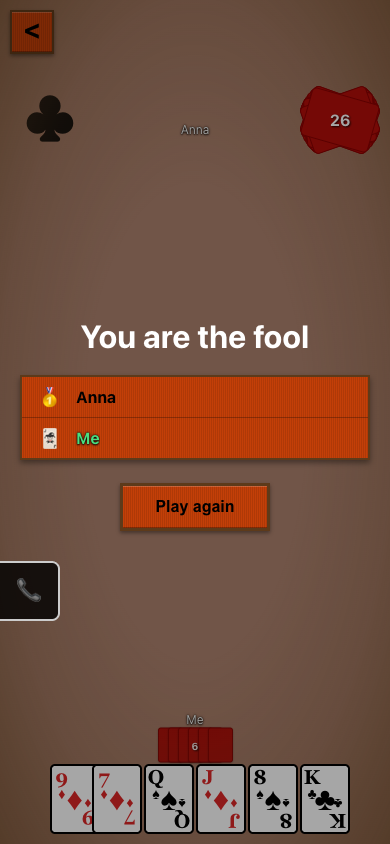
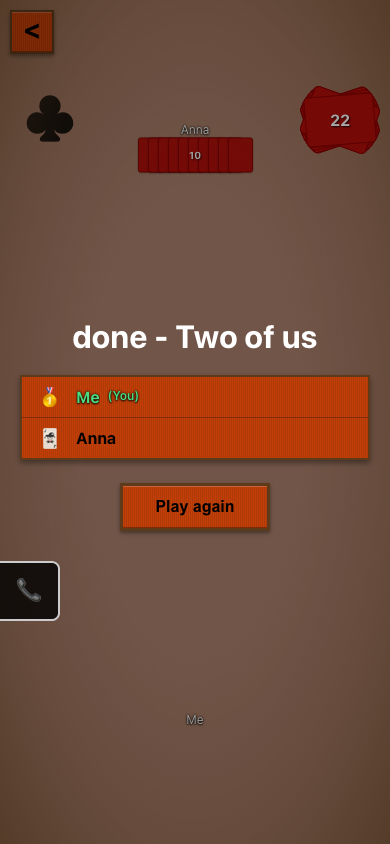
cdom_poc README: Consistency (what the repro found, real bugs and parity differences, each fix), Reload (the blob in cdom's store, what is not kept, a failed put, first paint measured both ways and B chosen), the bot's pace (bot_wait_ms on the page's BoardClock), the tests and 34 mutants; shots rege

diff --git a/foolish/c/cdom_poc/tools/mutate.py b/foolish/c/cdom_poc/tools/mutate.py
@@ -36,7 +36,6 @@ MUTANTS = [
   ('no (You) on my row', 'src/table_app.c', '  if (seat == ME) { OPEN("span"); CLASS("result-card__you");', '  if (0) { OPEN("span"); CLASS("result-card__you");', 'tools/test.mjs', 'React'),
   ('the game not kept after a bot step', 'src/table_app.c', '  bot_drive(&G, game_human_mask(&G), BOT_DRIVE_MAX_ACTIONS, 0, 0, &out);\n  committed();', '  bot_drive(&G, game_human_mask(&G), BOT_DRIVE_MAX_ACTIONS, 0, 0, &out);\n  game_keep_canonical(&G);', 'tools/test.mjs', 'reload'),
   ('the stored game ignored', 'src/table_app.c', '  game_adopted = len > 0 && game_keep_load(&G, p, len);', '  game_adopted = 0;', 'tools/test.mjs', 'reload'),
-  ('a battle never uncovered', 'src/table_app.c', '  if (want == it->data) return;\n  int aid', '  if (want == it->data || !want) return;\n  int aid', 'tools/test.mjs', 'reload'),
   ('a failed save ignored', 'src/table_app.c', '  save_failed = !ok;\n', '  save_failed = 0;\n', 'tools/test.mjs', 'not silent'),
   ('a failed save not tried again', 'src/table_app.c', '  if (token == TIMER_SAVE_RETRY) { save_retry_pending = 0; game_save(); }', '', 'tools/test.mjs', 'not silent'),
   ('http body not sent', 'vendor/cdom.js', 'const body = bodyLen ? copyBytes(bodyPtr, bodyLen) : undefined;', 'const body = undefined;', 'tests/net_test.mjs'),

diff --git a/foolish/c/cdom_poc/README.md b/foolish/c/cdom_poc/README.md
@@ -10,9 +10,10 @@ The look is the React components' inline styles, copied value for value, over `s
 The board is the kernel's, called directly as C: a `Game`, read for the viewer with `client_adopt_board` into a `TableView` and `client_view_rules`, the pills and the meaning of a click from `client_play`, the move written by `client_move_wire` and applied by `awire_apply`, and the bot's answer from `bot_drive`.
 The first board is the one `e2e/ui_dom_snapshots.test.ts` `twoSeatBout()` composes for the golden `bout_2p_attacker.html` (trump Kc, my 6s 7h Qd Ad against 9h Th Jh 6c, 6h/8h and 6d on the table).
 "Play again" deals a fresh seeded game.
+A reload lands in the same game: the kernel's state blob is kept in cdom's store after every move and adopted as the table starts (Reload, below).
 
 Playing: click a card to select it (red border) and the kernel's pills appear; click a pill, the table (attack or transfer) or a battle (cover) to play.
-The bot answers 650 ms later, one visible move per step, and the game runs to its end screen.
+The bot answers when the kernel says (`bot_wait_ms`: 3000 ms after the last move shown with a human in the game), one visible move per step, and the game runs to its end screen.
 Every region keeps what it last drew and emits only the difference: the hand, the battles, the pills, the stock and discard layers and each mini hand are cdom keyed lists; the counts, the role marks and the hand positions are patched in place.
 Nothing is rebuilt on a move: the test tags the nodes before a move and finds the same nodes after it.
 
@@ -22,7 +23,8 @@ Live play against c_base and sign-in are next steps, not part of this PoC; the n
 
 ## Files
 
-- `src/table_app.c`: the table (1,325 lines; 251 of them the texture pipeline, from making to the store).
+- `src/table_app.c`: the table (1,626 lines, the texture pipeline and the test build's window on the kernel among them).
+- `src/game_keep.c`, `src/game_keep.h`: the game as a host keeps it: canonical after every operation, its blob written and adopted (48 lines); linked by the table and by `tests/blob_test.c`.
 - `src/ui.h`: element shorthands over cdom's `CD_LIT`, and the style builder whose result crosses as a one-off string (36 lines).
 - `src/kernel_glue.c`: the one bot brain (20 lines); the allocator is cdom's.
 - `src/textures.c`, `src/textures.h`: the wool, the wood and the fern, ports of their TS generators, the wool kept in a crop and the wood in rectangles (385 lines).
@@ -33,14 +35,18 @@ Live play against c_base and sign-in are next steps, not part of this PoC; the n
   The table links `cdom_store.c` (the textures across loads) but not `mini.c` (the kernel's libc brings memcmp and strlen) nor `cdom_net.c` (it has no network yet); the network test links the network.
 - `tests/net_test.c`, `tests/net_test.mjs`: cdom's network imports against a local echo server.
 - `tests/tex_test.c`: the texture generators alone, for `tools/texparity.mjs`.
-- `tools/`: `cdp.mjs` (headless Chrome over CDP and a static server), `test.mjs`, `shots.mjs`, `timing.mjs`, `textime.mjs` (the textures' timing against the app's), `strings.mjs`, `texparity.mjs`, `domcount.mjs`, `domdiff.mjs`, `play.mjs` (plays my seat to the end by clicks), `mutate.py`.
+- `tests/blob_test.c`: native; 300 games round-tripped through the state blob at every step (110 lines).
+- `tools/`: `cdp.mjs` (headless Chrome over CDP and a static server), `test.mjs`, `shots.mjs`, `timing.mjs`, `textime.mjs` (the textures' timing against the app's), `strings.mjs`, `texparity.mjs`, `domcount.mjs`, `domdiff.mjs`, `play.mjs` (plays my seat to the end by clicks), `consist.mjs` (the DOM against the kernel and React's rules at every click and bot step), `mutate.py`.
+- `out/table_debug.wasm`: the test build, the same table with `TABLE_DEBUG` (`?debug` on the page loads it): the kernel's state as text (`app_debug_state`), the bot's steps held for the test (`app_debug_hold`, `app_debug_release`) or made 30 ms (`app_debug_fast`, the clock put back, the kernel's rule untouched), and the kernel's random streams seeded (`app_debug_reseed`).
 - `shots/`: the screenshots.
 
 ## Running it
 
 ```
-./build.sh                      # out/table.wasm, out/index.html, out/net_test.wasm, out/tex_test.wasm
-node tools/test.mjs             # the table test
+./build.sh                      # out/table.wasm, out/table_debug.wasm, out/index.html, out/net_test.wasm, out/tex_test.wasm, out/blob_test
+out/blob_test                   # the state blob against the games this table plays (native)
+node tools/test.mjs             # the table test (ONLY=<regex> runs the checks it matches)
+node tools/consist.mjs 3 1      # 3 games by seeded random clicks, the DOM against the kernel at every step
 node tests/net_test.mjs         # the network imports
 node tools/strings.mjs          # the string table over three games
 node tools/texparity.mjs        # the C textures against the TS generators (writes out/tex_ts.js)
@@ -55,7 +61,8 @@ Run `npm install` once in `tools/` for terser; without it the shim is inlined un
 `tools/texparity.mjs` and `tools/textime.mjs` bundle the app's TS with esbuild from the main checkout's node_modules (`/Users/alex/Dev/foolish/foolish/node_modules`).
 `build.sh` needs homebrew LLVM (`WASM_CC` overrides it), and uses `wasm-opt` and `brotli` when present.
 The tools serve `foolish/` on port 8720 and drive Chrome on 8729.
-`?notex` on the page leaves the textures out (the golden comparisons use it).
+`?notex` on the page leaves the textures out (the golden comparisons use it); `?debug` loads the test build.
+A load adopts the game the last load kept: the tools that need the golden's board load it through `openTable` (tools/cdp.mjs), which forgets the kept game first.
 To play by hand, serve `foolish/` (for example `node -e "import('./c/cdom_poc/tools/cdp.mjs').then((m) => m.serve())"` from `foolish/`) and open http://127.0.0.1:8720/c/cdom_poc/out/index.html.
 
 ## Against the React golden
@@ -74,6 +81,73 @@ With textures, `shots/react_golden_tex.png` is the golden with the app's TS text
 Against `shots/cdom_tex_midgame.png` 6,643 of 786,432 pixels differ, every one of them on a card back: 4,025 on the deck, 1,520 and 1,098 on the two mini hands (the fern, Textures); the wool and the wood are the same pixels.
 At 390x844 the count is 21,032: the 13,952 above (the hand, laid out for jsdom's width in the golden), the card backs, nothing on the wool.
 `shots/fern_backs.png` and `shots/fern_backs_390x844.png` put a card back of each side by side, 4x (React's left).
+
+## Consistency
+
+The owner played the port and found no consistent state.
+Reproduced first, by `tools/consist.mjs` and `tests/blob_test.c` at 6e0646936 (before any fix) and by a scripted load, wait, throw-in and reload against that build and this one.
+`tools/consist.mjs` plays games by seeded random real clicks (cards picked and put down, pills, a battle, the empty table), holds the bot's steps and releases them one by one, and after every click and every bot step compares the DOM with the kernel's state (worked out afresh, from the game round-tripped through its blob, by a ClientTable of its own) and with a model of React's rules for what the kernel does not hold (spec: GameContext's selection, ActionButtons' pressed pills and rearm, DragContext's drop, WinScreen).
+It checks the hand (cards, order, each card's box against the kernel's `hand_layout` slot, the red borders), the pills, the battles, the stock badge and layers, the trump card or icon, the discard pile, each seat's mark and count, whose step it is, and the end screen.
+
+What it and the other repros found, in order, and what each was:
+1. **The game the port kept was not the game its blob holds** (a real bug; `tests/blob_test.c`).
+   Round-tripping the port's game through `state_blob_put`/`state_blob_load` at every step of seeded games and driving both copies on with the same seeds: seed 1, step 11, a transfer by the defender, and the two boards differ (`players[1].awaiting_attack` 1 in the resident game, 0 in the loaded one; then other moves).
+   The defender's raw awaiting flag outlives its turn as defender, the blob writes it as `game_seat_awaiting`, and the passer, an attacker again, carried the dead flag into play.
+   The kernel's answer is view.h `state_canonical`: a host that keeps a board between operations keeps it canonical (table.c `table_resident` does).
+   Fixed: `game_keep_canonical` after every operation (a move, a bot step, a deal, a load); 300 games, 15,418 steps then agree board for board and drive for drive.
+   (The same test first showed two bot seats taking turns in another order after a load: bot_drive.c `drive_seed` counts the log, which the blob drops; canonical drops it too, and the port has one bot seat.)
+2. **The bot never moved on the first board** (a real bug).
+   The golden's board has the bot defending against 6d; at load `data-turn` said "human" and four seconds later the table was unchanged (3 cards, Anna 4): the bot was scheduled only after a click.
+   Fixed: the bot's timer runs exactly while the kernel says it may act (`bot_check` after every change, from the start).
+3. **The bot answered 650 ms after a move, the port's own number** (React parity; measured 643 ms after a throw-in).
+   Fixed: the kernel's `bot_wait_ms` (The bot's pace, below): 3,020 ms measured after the same throw-in.
+4. **The end screen was the port's own** (React parity): "You are the fool", "You won" or "A draw" and rows "🥇Anna", "🃏Me", where WinScreen.tsx says "done - Two of us" (its title), orders the rows by the kernel's `anim_finish_rows` (everyone out, then the fool), gives the fool's card to the last place (so a draw's second out too) and writes "(You)" after my name.
+   Fixed: the same title, the kernel's rows, RankIcon's rule and the "(You)" span.
+   The button stays "Play again" (the app's "Continue to lobby" goes to a lobby this port does not have).
+5. **A reload went back to the seeded deal** (missing; the app re-reads its server's row): before the reload my hand 1-6 3-11 3-13 0-13 0-12 2-6 against an empty table and Anna's 8, after it the golden's 0-5 1-6 3-11 3-13.
+   Fixed: Reload, below.
+6. **A battle's cover was only ever added** (a real bug, found by the reload check).
+   With the kept game drawn over the seeded deal, the golden's 6h/8h battle stayed covered in the DOM where the kept game had 6h uncovered (the list key is the attack card, and the patch assumed a battle is only covered).
+   Fixed twice over, for different reasons: a battle's patch now follows its cover both ways (its item holds the cover's card), and the board is no longer drawn before the store answers (Reload).
+   No path in play replaces a covered battle with an uncovered one under the same attack card now, so the both-ways patch has no check that can reach it; it is kept as the list's honest rule.
+7. **The selection rules differed in code but showed nothing** (React parity, invisible locally).
+   The port cleared the selection after any move it applied (Pickup and Good included) and only when applied; React clears it when Attack, Pass or Cover is pressed (refused or not), when a drop is a move, and never on Pickup or Good.
+   The port now does exactly that, but nothing a player sees changed: a selection never offers Pickup or Good (one move, one button), and an offered Attack, Pass or Cover is never refused by a local engine.
+   Neither the bot's moves nor a card turning illegal clears it, as in React; the pills follow `client_play` (the consistency check holds both).
+8. **No pressed pills** (React parity, invisible locally).
+   Implemented as ActionButtons does (hidden until the kernel's pill falls and rises again, folded with the empty selection's pills; unpressed on a refusal), but over 3 games and 72 presses (seed 1) no pill was still offered after its move: a press only shows while a move is on its way to a server.
+   Its mutant would be equivalent and is not in the list.
+Two early reports of the harness were its own: a click on a card's centre that landed on a neighbour still sliding (0.1 s) or lying over it, now clicked where the card shows once every card's transition is over.
+
+## Reload
+
+The React app keeps no game in the browser (spec_state.md section 1): online it re-reads the server's committed row and adopts it through `client_adopt_envelope`.
+The port's equivalent is the kernel's own durable form: after every operation the game is made canonical and `state_blob_put` (format v5, 122 bytes for a fresh deal) is kept in cdom's store under `foolish-game-v1`, the store the textures use (one store path).
+As the table starts it asks the store (`openStore` opens IndexedDB while the wasm loads) and draws the board when the store answers: the kept game when `state_blob_load` reads it as a two-seat game playing or over, else the seeded deal.
+The seats' kinds are not in the blob (the kernel's `table_load` takes them from its roster): seat 0 is the human and seat 1 the handwritten bot again.
+The blob carries `has_flipped` and, with it, the trump; an unflipped trump comes back as {0,0}, which `client_adopt_board` hides behind `has_flipped` and `state_canonical` writes on the resident game too, so `tests/blob_test.c` finds the same TableView and ViewRules for both seats either way.
+The blob's clock is written zero: it would be this page's time, and a load shows the board anew, so the bot waits its full pace after a reload.
+The handwritten bot keeps nothing outside the Game (its random draws come from the kernel's stream, which a load starts anew): the blob is the whole game.
+Not kept, as React keeps neither: the selection and the pressed pills; the hand is in the kernel's order (the port has no local order).
+A failed write is not silent: the store answers each put (`cd_on_store_put`), a failure shows "Not saved: a reload would lose this game" at the top of the table until a later put is kept, and the save is tried again 2 s later (every move saves anyway).
+
+When to draw: measured two ways, paired and interleaved (`tools/timing.mjs`, BLANK=1, 3 rounds of 7 fresh loads per arm per throttle, `?notex&debug`, nothing kept), first contentful paint median and 25th-75th percentile:
+| | x1 | x4 |
+| --- | ---: | ---: |
+| A: the seeded deal drawn at once, a kept game adopted over it | 136.6 (116.7-163.7) to 165.7 | 330.0 to 353.5 |
+| B: the board drawn when the store answers | 69.5 to 73.0 (66.6-114.2) | 189.4 to 200.4 |
+(the range is the three rounds' medians; the store answered at 54 to 58 ms at x1 and 185 to 194 at x4 in B, before the first paint, and cdom.start resolved at 24 to 28 ms in B and 70 to 95 in A.)
+Load: averages 29.9 to 41.9 on 8 cores around the runs (another agent's `cnitro_eval` and `cnitro_tests` at 44 to 70% of a core each), above the core count, so the absolute times are upper bounds; the arms ran alternately under the same load and B was faster in every round.
+B is the table: the frame (the wool, the title, the back button) paints, the board joins it when the store answers, at most `CD_STORE_DEADLINE_MS` (1,500 ms) when IndexedDB hangs, and a click or a resize before then does nothing.
+Why A cost so much more than the render itself was not taken further: B does not move first paint (69.5 to 73.0 against this pass's start, 73 in the texture table below).
+
+## The bot's pace
+
+The kernel owns it: `bot_wait_ms(g, human_mask, shown_ms, settles_ms, now)` (bot_drive.h), the server's rule, says how long the bot waits before it acts on the board in front of it: until the last operation shown has finished playing, then `BOT_PACE_MS_WITH_HUMANS` (3000 ms) with a human in the game.
+The port keeps the table's BoardClock in its own page time: `shown_ms` is when the last operation (mine, the bot's, a deal, a load) was shown, and `settles_ms` when it finishes playing, which with no animations is the same instant (`settles_ms()` in table_app.c is where pass 3 adds the animation stream's end, `anim_stream_ms`).
+The bot's timer runs exactly while the kernel says it may act (`bot_drive_eligible_mask`), and asks the kernel again when it fires: a move of mine in between moves the bot's step back, as the server's loop does (measured: the bot moved 3,018 to 3,024 ms after my throw-in, 4,088 to 4,128 ms after the load).
+A timer cannot be cancelled: each schedule has a generation, and an older one's timer does nothing.
+`bot_cycle_delay_ms` (the iMessage loop's fixed sleep after a cycle) is not used: it counts from the bot's own move and ignores a human's, which bot_drive.h names as the reason the server moved to `bot_wait_ms`.
 
 ## Textures
 
@@ -186,12 +260,12 @@ Every computed string (a style, a data-card, an index) now crosses as a one-off 
 Live node ids at each end screen: 58, 64, 60 (the board on screen differs; nothing accumulates).
 
 Sizes:
-- `table.wasm` 71,391 bytes raw, 29,539 brotli (q11), 32,872 gzip (-9); before the texture pass 71,725, 29,589 and 32,956, before the first port-fixes pass 54,992, 22,122 and 24,870.
+- `table.wasm` 75,303 bytes raw, 31,092 brotli (q11), 34,723 gzip (-9) after the consistency pass (the blob's writer and reader, `state_canonical`, `bot_wait_ms`, `anim_finish_rows`, the end screen's rows, the save's notice); before it 71,391, 29,539 and 32,872, before the texture pass 71,725, 29,589 and 32,956, before the first port-fixes pass 54,992, 22,122 and 24,870.
   musl's 2/pi table went with jsmath.c; the crop, the rectangles, the store and the keys came in.
   For scale, the React app's kernel alone, web.wasm, is 67,311 raw and 31,219 gzip (c/Makefile), before any JavaScript, and its textures are in its JavaScript.
 - The shim: cdom's own, unchanged, written to be read and inlined minified: 6,678 bytes minified, 2,632 brotli (6,553 and 2,615 in its golfed form before); cdom's PERF_LOG.md, SHIM_LINES, says what each import is for.
   Before the first port-fixes pass the port carried 172 lines of its own patched shim.
-- The C the table is written in: 1,381 lines (`table_app.c` 1,325, of which the texture pipeline 251, `ui.h` 36, `kernel_glue.c` 20), plus the generators (385), trig.c (141) and crtrig.c (139).
+- The C the table is written in: 1,710 lines (`table_app.c` 1,626, with the texture pipeline and the test build's window on the kernel, `game_keep.c` and `.h` 48, `ui.h` 36, `kernel_glue.c` 20), plus the generators (385), trig.c (141) and crtrig.c (139).
 
 ## Against the TSX it replaces
 
@@ -202,22 +276,27 @@ For what both do, the C is about as long as the TSX, most of it the same inline 
 
 ## The tests
 
-`tools/test.mjs` (headless Chrome, real mouse events):
-- the first paint is the golden's DOM, but for the listed differences;
+`tools/test.mjs` (headless Chrome, real mouse events; the test build, its bot held or fast where a check says so):
+- the first paint is the golden's DOM, but for the listed differences (and `data-turn="bot"`: the bot may act on that board);
 - the seeded deal reads back: the hand, the battles, a badge of 21 over 20 stock layers, the marks, no pills;
 - a resize re-lays the hand at the new width through `hand_layout` (the resize arrives through cdom's event path, `cd_listen_window`);
 - a click selects a card and the kernel's pills follow (7h offers nothing, 6s offers Attack), and a second click deselects;
-- Attack plays 6s, the bot answers with a legal move, the surviving hand cards, battles and seats are the same DOM nodes, and Anna's count stays her mini hand's last child;
+- Attack plays 6s and spends the selection, the bot answers with a legal move, the surviving hand cards, battles and seats are the same DOM nodes, and Anna's count stays her mini hand's last child;
 - the textures land after the first paint: with the store emptied, none is set when the table first shows, then all four and the black back are, a card back, a button and the wool show a `url(blob:...)`, all were made on this load, and the wool's image is the app's 3840x2160;
 - the next load in the same profile sets all four from the store and makes none (no generator ran);
-- a game played out by clicks (`tools/play.mjs`, textures on) reaches the end screen, and Play again deals six new cards;
+- the bot waits as the kernel says: 3000 ms with a human in the game (`app_bot_wait`), and a throw-in of mine a second after the load puts its step 3000 ms after the throw-in (between 2,900 and 4,500 ms), not after the load;
+- the consistency check (`tools/consist.mjs`, seed 1, 3 games, textures on): no disagreement at any click or bot step;
+- a reload lands in the same game: seed 3's line (my 6s, the bot's answers, my moves) to 6h, 6d and 6s attacking me, the DOM the kernel's, a card selected, a reload: the stored game adopted and the DOM the same but for the selection; then played to its end, a reload shows the end screen, Play again, and a reload shows the new deal;
+- a save that fails is not silent: with IndexedDB refusing the game's key, a move shows the notice; the store taking it again, the retry keeps the game, the notice goes, and a reload adopts it;
+- a game played out by clicks (`tools/play.mjs`, textures on) reaches the end screen ("done - Two of us"), and Play again deals six new cards;
 - after every click of that game and of more games, until every pill has shown, every wood surface on the page (the back button, each pill, the results panel, Play again) lies inside the rectangles its picture was worked out in.
 
+`tests/blob_test.c` (native, ASan and UBSan): 300 seeded games with seat 1 the bot and seat 0 the same brain driven alone, the game canonical after every operation as the table keeps it; at every step the blob is written and adopted by `game_keep_load` into a zeroed Game, and the board (`state_put` unmasked, byte for byte), both seats' TableView and ViewRules, and the next drive from the same seeds all agree.
 `tests/net_test.mjs`: a wasm module sends 8 binary bytes over a WebSocket and gets them echoed, then POSTs them and gets them back reversed (cdom's network, with no cd_flush anywhere).
 `tools/strings.mjs`: from game 2 to game 3 the string table may grow only by what a game can show for the first time late (an end title, a pill, a medal: at most 10 strings and 200 bytes); it had been "may not grow", which failed whenever game 3 was the first to show such a literal (seen once in this pass, 180 to 181).
 `tools/texparity.mjs`: the PRNG exact; the wood's cos exactly Chrome's and trig.c's sin, cos and tan within 1 ulp; the wool (whole and the page's crop), the wood (floats, the WebGL picture, and six rectangles with the base colour around them) and the fern's points exact; the multisampled fern within 3% of the WebGL picture; and, measured but not judged, the page-size fern against the app's picture shrunk.
 
-Mutation check (`tools/mutate.py`), each of 24 mutants caught by the check written for it:
+Mutation check (`tools/mutate.py`), each of 36 mutants caught by the check written for it (a mutant of this pass runs the check it names, `ONLY`; the source's copy is kept outside the checkout):
 - a card face's radius 5px to 4px: the golden check names the first differing tag;
 - the bot never chooses a move: the bot-answer check times out on `data-turn`;
 - the hand rebuilt on every render: "the three cards left in my hand are the nodes that were there";
@@ -233,6 +312,15 @@ Mutation check (`tools/mutate.py`), each of 24 mutants caught by the check writt
 - the store ignored: "every texture from the store, no generator run" (the warm load made all four);
 - the wool not placed in the 3840x2160 image: "the wool image is the app's size" (1952x1104);
 - the WebSocket bytes flipped in the shim: "ws failed"; the HTTP body not sent: "http wrong".
+- the game not canonical between operations: `out/blob_test` ("seed 1 step 11 after the next drive: the board differs");
+- a drop that is no move spends the selection: the consistency check ("selection held x152 ... port (none) React 1-6");
+- the bot not scheduled at the start: the golden check (`data-turn="human"`) and the pace check;
+- the bot's wait 650 ms from the clock: "the kernel's wait with a human in the game" (650 against 3000); the timer stepping without asking again: "the bot's step 3000 ms after my move, not after the load: 1876 ms";
+- the end rows reversed, and no "(You)": the consistency check ("end rows");
+- the game not kept after a bot step, and the kept game ignored: the reload check ("the DOM after the reload is the DOM before it", "the stored game adopted");
+- a failed put not answered, and not tried again: the save check (no notice; the notice never goes).
+Not in the list, being equivalent here: Pickup and Good spending the selection (a selection never offers either), a pressed pill shown (no press outlives its move locally), and a battle's cover patched one way only (no path in play uncovers a battle under the same attack card since the board waits for the store).
+Run at load averages 45.9 to 89.7 on 8 cores (the bot league), every mutant caught; the pace check's bounds (2,900 to 4,500 ms) held.
 
 ## WHAT THE APP NEEDED FROM CDOM
 
@@ -305,6 +393,10 @@ Items 1 to 16 were folded into cdom on branch port-fixes (`/Users/alex/Dev/cdom-
 - **A one-off string must be used in the very next op.**
   `face_open` had to stop taking a style argument (the template slot writes in between would have sent it early); cdom traps on a stale one-off, which is how it showed.
 - **The table grew**: `table_app.c` is 1,325 lines, 251 of them the texture pipeline (making, the crop and rectangles, the store, the keys); in the first port-fixes pass it went from 1,015 to 1,117 with per-property patching (a hand card remembers its box and writes only what moved), which keeps the string table flat and made the clicks faster.
+- **A host keeping a board must keep it canonical** (consistency pass): the kernel says so in view.h `state_canonical`, but nothing stops a host that applies moves to a resident Game from skipping it, and the board then drifts from its own row (Consistency, item 1).
+  A kernel entry that applies a move and canonicalises in one call would make the rule impossible to forget.
+- **Whether a put was kept** (consistency pass): the saved game needs the answer the textures can ignore; cdom's store now answers every put (`cd_on_store_put`, vendored by the texture pass), and the table shows a notice and retries on a failure.
+- **First paint and the store** (consistency pass): drawing the board before the store answered and the kept game over it cost first paint 66 ms at x1 (Reload); the board now waits for the answer, bounded by the store's deadline.
 - **Open for live play (not now)**:
   - fetch has no request headers (no Authorization: Bearer, so c_base /v1 is unreachable) and no response headers;
   - the sockets array never frees ids;
